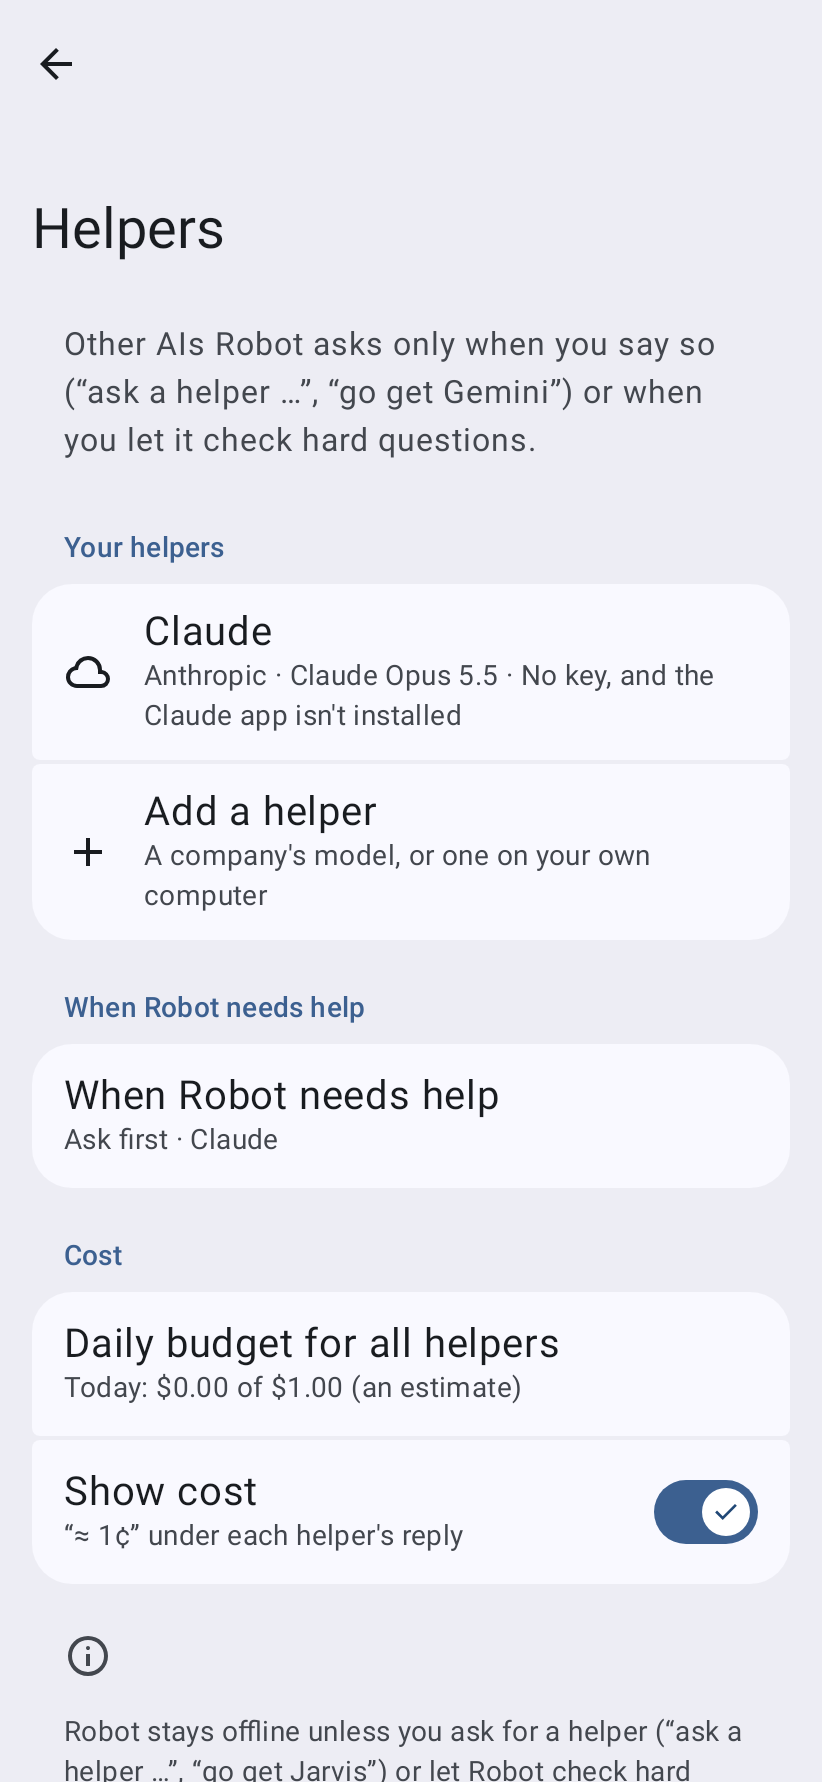
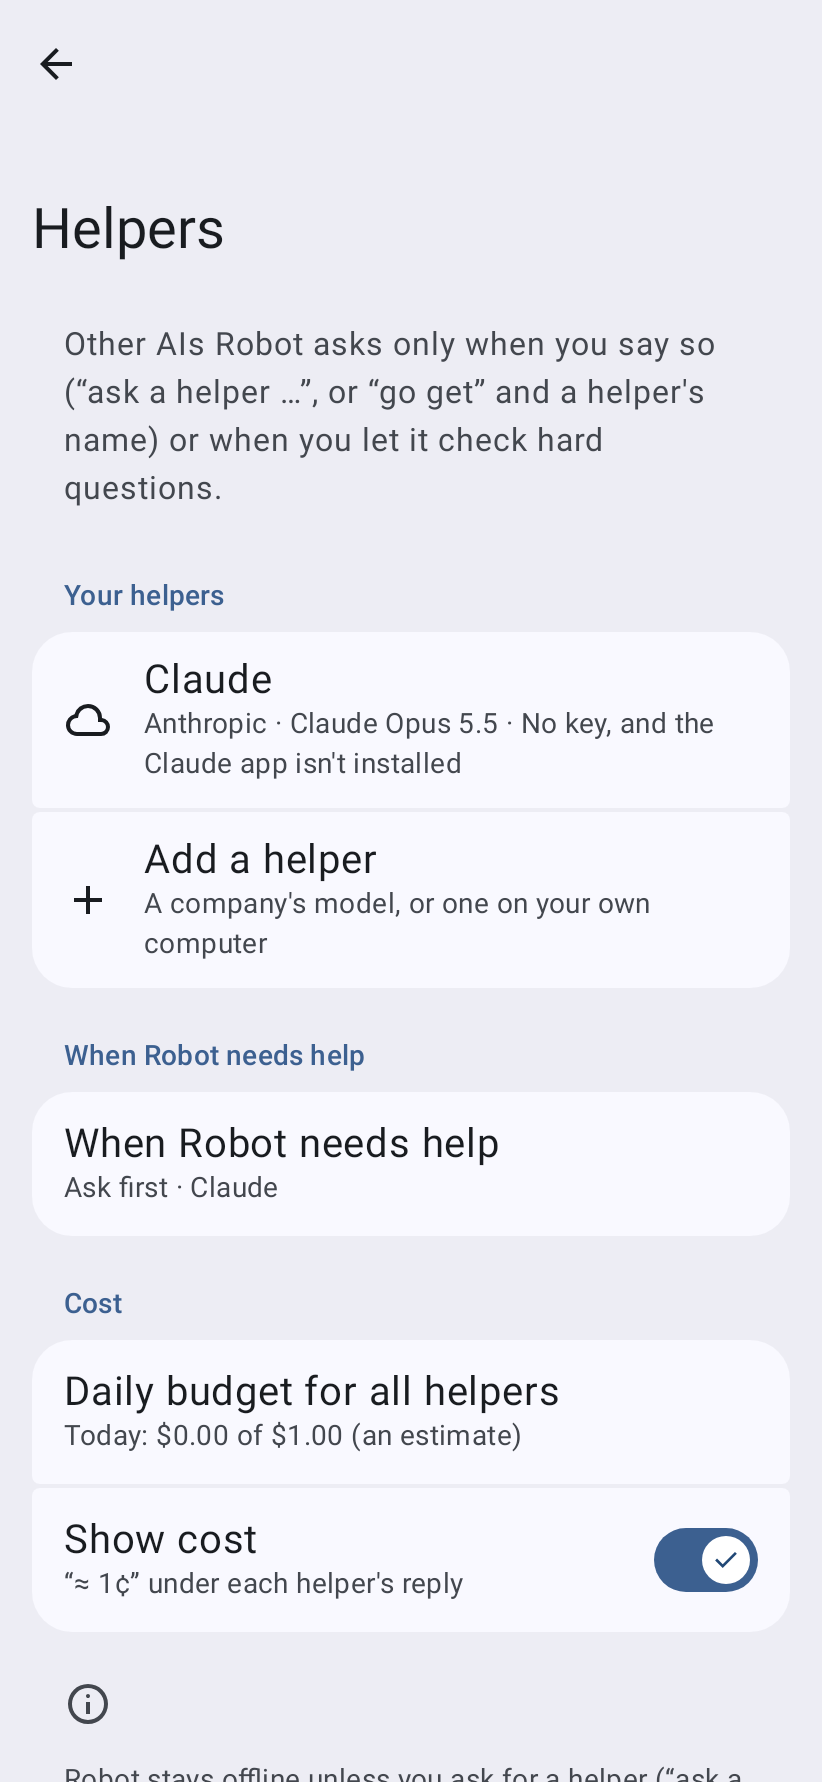
Explanations name no AI product: setup guide, Helpers intro and the licence notes

diff --git a/robot/app/src/main/java/app/heyrobot/ui/HelpersScreens.kt b/robot/app/src/main/java/app/heyrobot/ui/HelpersScreens.kt
@@ -147,7 +147,7 @@ fun HelpersScreen(s: RobotSettings, snap: Snapshot, update: (RobotSettings) -> U
     val spend = f?.spend
     PreferenceScreen("Helpers", onBack, snackbar = snackbar) {
         item(key = "intro") {
-            IntroPreference("Other AIs Robot asks only when you say so (“ask a helper …”, “go get Gemini”) or when you let it check hard questions.")
+            IntroPreference("Other AIs Robot asks only when you say so (“ask a helper …”, or “go get” and a helper's name) or when you let it check hard questions.")
         }
         preferenceGroup("Your helpers", "helpers") {
             if (s.helpers.isEmpty()) PreferenceItem("No helpers", "Robot answers everything itself")
